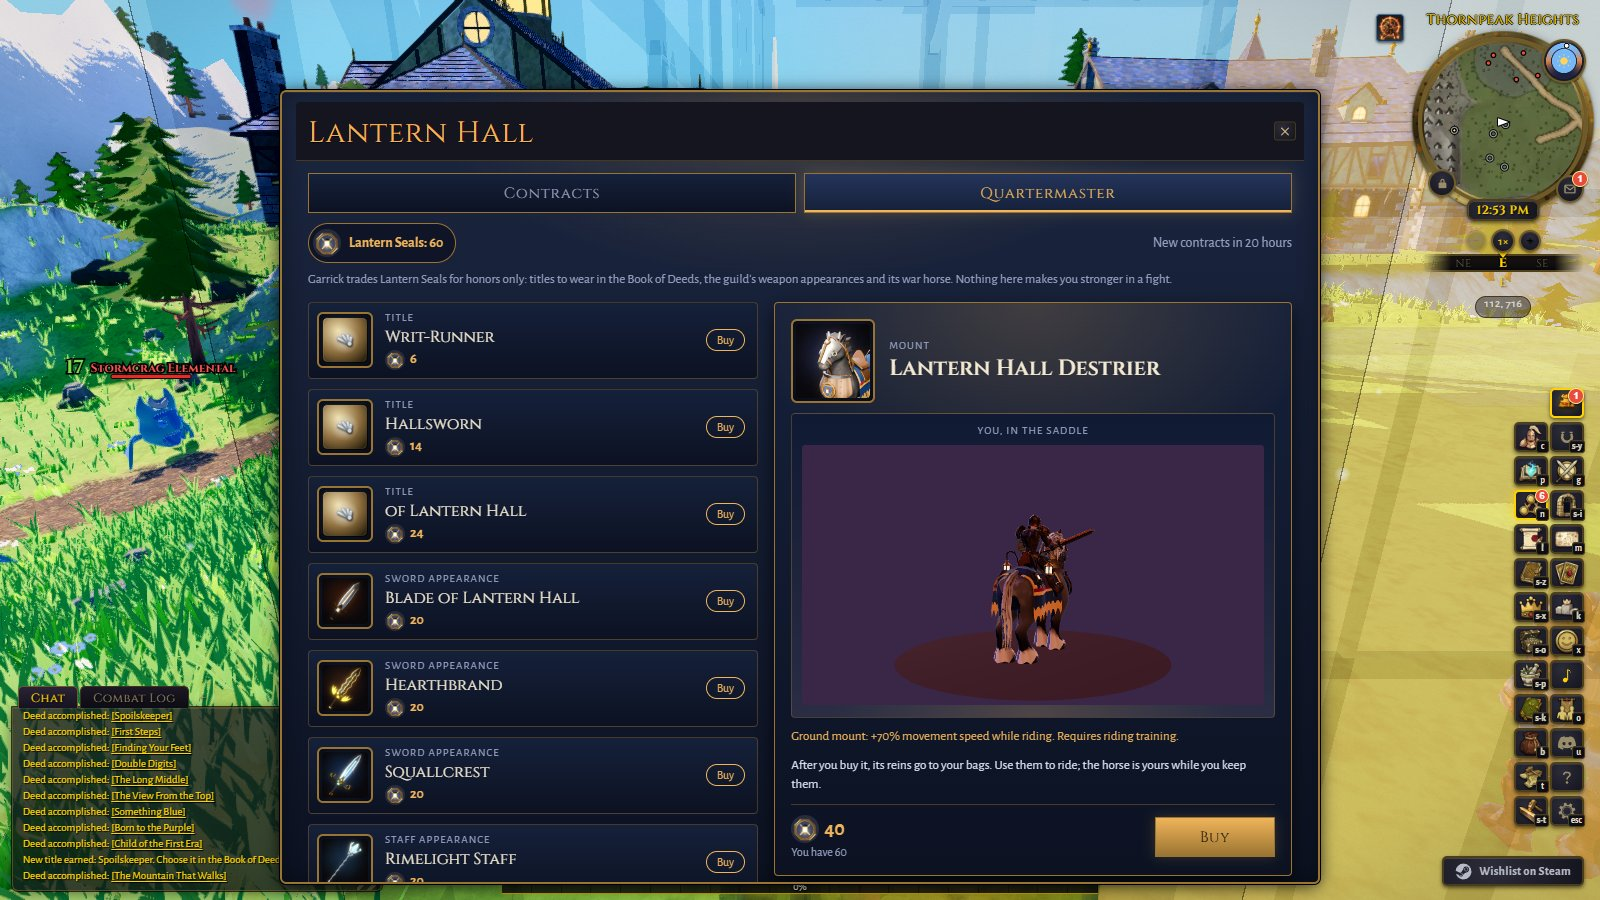
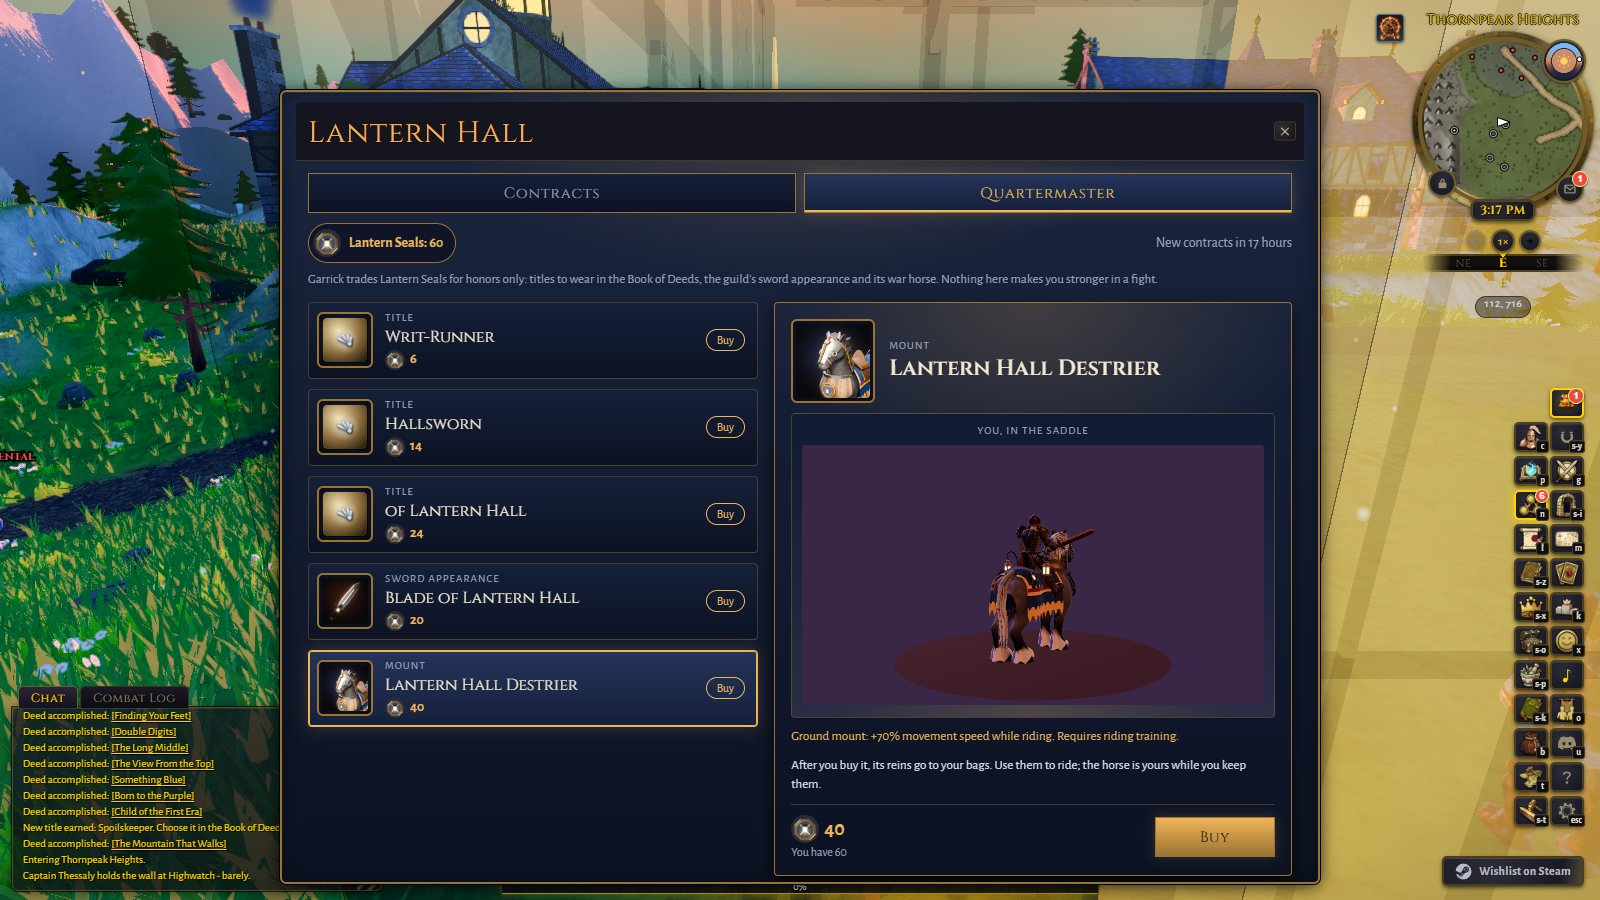
fix(guild): keep reserved arms off every server grant path
The server's Claudium storefront, spend allowlist and ownership mirror,
and the guild ledger now gate on isGrantableWeaponSkin, so a skin held
back for a future raid can never reach an account even if the economy
service lists it. Stale comments are corrected and the quartermaster
screenshots are recaptured on the Blade of Lantern Hall.

diff --git a/tests/server/account_cosmetics_service.test.ts b/tests/server/account_cosmetics_service.test.ts
@@ -1,9 +1,12 @@
 import { afterEach, describe, expect, it, vi } from 'vitest';
 
-const { persist } = vi.hoisted(() => ({ persist: vi.fn() }));
+const { persist, persistWeapon } = vi.hoisted(() => ({
+  persist: vi.fn(),
+  persistWeapon: vi.fn(),
+}));
 vi.mock('../../server/db', () => ({
   grantAccountMountSkins: persist,
-  grantAccountWeaponSkins: vi.fn(),
+  grantAccountWeaponSkins: persistWeapon,
   grantAccountMechChroma: vi.fn(),
   markAccountQuestComplete: vi.fn(),
   setAccountWeaponSkinLoadout: vi.fn(),
@@ -12,6 +15,7 @@ vi.mock('../../server/db', () => ({
 import { EMPTY_LIVE_ACCOUNT_COSMETICS } from '../../server/account_cosmetics_live';
 import { AccountCosmeticsService } from '../../server/account_cosmetics_service';
 import { RETIRED_MOUNT_SKIN_IDS } from '../../src/sim/content/mount_skins';
+import { RESERVED_WEAPON_SKIN_IDS } from '../../src/sim/content/weapon_skins';
 
 const base = () => ({ ...EMPTY_LIVE_ACCOUNT_COSMETICS, mountSkinIds: [] as string[] });
 const flush = async () => {
@@ -20,6 +24,7 @@ const flush = async () => {
 afterEach(() => {
   vi.restoreAllMocks();
   persist.mockReset();
+  persistWeapon.mockReset();
 });
 
 function setup() {
@@ -38,6 +43,23 @@ function setup() {
   service.remember(7, base());
   return { service, sessions, sim };
 }
+
+describe('weapon skins reserved for a future raid', () => {
+  it('never mirrors one the economy ledger grants, nor grants one through the guild ledger', () => {
+    const { service, sessions } = setup();
+    expect(RESERVED_WEAPON_SKIN_IDS.length).toBe(4);
+    service.grantWeaponSkins(7, [...RESERVED_WEAPON_SKIN_IDS, 'not_a_skin']);
+    expect(persistWeapon).not.toHaveBeenCalled();
+    expect(sessions.map((s) => s.accountCosmetics.weaponSkinIds)).toEqual([[], []]);
+    const ledger = service.ledger(sessions[0] as never);
+    for (const id of RESERVED_WEAPON_SKIN_IDS) expect(ledger.grantWeaponSkin(id), id).toBe(false);
+    expect(sessions[0].accountCosmetics.weaponSkinIds).toEqual([]);
+    // the guild's own blade still grants
+    persistWeapon.mockReturnValue(new Promise(() => {}));
+    expect(ledger.grantWeaponSkin('lantern_hall_sword')).toBe(true);
+    expect(persistWeapon).toHaveBeenCalledExactlyOnceWith(7, ['lantern_hall_sword']);
+  });
+});
 
 describe('durable mount skin grants', () => {
   it('never mirrors a retired skin the economy ledger still grants', () => {

diff --git a/server/account_cosmetics_service.ts b/server/account_cosmetics_service.ts
@@ -8,7 +8,11 @@
 // what keeps every test double on one import).
 import { isMountSkinId } from '../src/sim/content/mount_skins';
 import { withWeaponSkinApplied } from '../src/sim/content/weapon_skin_rules';
-import { isWeaponSkinType, WEAPON_SKINS } from '../src/sim/content/weapon_skins';
+import {
+  isGrantableWeaponSkin,
+  isWeaponSkinType,
+  WEAPON_SKINS,
+} from '../src/sim/content/weapon_skins';
 import type { GuildAccountPort } from '../src/sim/guild_quartermaster';
 import type { Entity, SkinCatalog, WeaponSkinLoadout, WeaponSkinType } from '../src/sim/types';
 import type { AccountCosmetics } from '../src/world_api';
@@ -148,7 +152,7 @@ export class AccountCosmeticsService {
     return {
       ownsWeaponSkin: (skinId) => session.accountCosmetics.weaponSkinIds.includes(skinId),
       grantWeaponSkin: (skinId) => {
-        if (!WEAPON_SKINS[skinId]) return false;
+        if (!isGrantableWeaponSkin(skinId)) return false;
         this.noteWeaponSkin(session, skinId);
         return true;
       },
@@ -178,7 +182,8 @@ export class AccountCosmeticsService {
   grantWeaponSkins(accountId: number, skinIds: string[]): void {
     this.grantSkins(
       accountId,
-      skinIds.filter((id) => WEAPON_SKINS[id]),
+      // never a skin reserved for a future raid, whatever the economy ledger carries
+      skinIds.filter(isGrantableWeaponSkin),
       'weaponSkinIds',
       grantAccountWeaponSkins,
     );

diff --git a/tests/guild_steed_and_sword.test.ts b/tests/guild_steed_and_sword.test.ts
@@ -67,7 +67,7 @@ describe('the catalog records', () => {
   it('stocks the horse at 40 seals and the sword at 20, both after the titles', () => {
     expect(LANTERN_HALL_DESTRIER_SEALS).toBe(40);
     expect(LANTERN_HALL_SWORD_SEALS).toBe(20);
-    // the sword leads the weapon rows, the four elemental arms follow it, the horse closes
+    // the sword is the one weapon row, the horse closes
     const ids = GUILD_QUARTERMASTER_STOCK.map((o) => o.id);
     expect(ids.slice(3, 4)).toEqual([SWORD]);
     expect(ids.at(-1)).toBe(HORSE);
@@ -120,7 +120,7 @@ describe('the catalog records', () => {
       earnedFrom: 'lantern_hall',
     });
     expect(STORE_WEAPON_SKIN_LIST.some((s) => s.id === LANTERN_HALL_SWORD_SKIN_ID)).toBe(false);
-    // the blade and the guild's four elemental arms are the five earned skins
+    // the store skips five: the guild's earned blade and four arms reserved for a future raid
     expect(STORE_WEAPON_SKIN_LIST.length).toBe(Object.keys(WEAPON_SKINS).length - 5);
   });
 });

diff --git a/server/claudium.ts b/server/claudium.ts
@@ -17,7 +17,7 @@ import type * as http from 'node:http';
 import { MEMBERSHIP_TOKEN_SKU } from '../src/membership_token_contract';
 import { isMountSkinId } from '../src/sim/content/mount_skins';
 import { isKnownStorageSkuId } from '../src/sim/content/storage_charters';
-import { WEAPON_SKINS } from '../src/sim/content/weapon_skins';
+import { isGrantableWeaponSkin } from '../src/sim/content/weapon_skins';
 import { GAME_SUBSCRIPTION_PLAN, GAME_SUBSCRIPTION_PRICE } from '../src/subscription_contract';
 import {
   type ClaudiumNativeRail,
@@ -118,7 +118,8 @@ function parseSpendKind(value: unknown): 'cosmetic' | 'skin' | 'item' | 'storage
 }
 
 function isKnownWeaponSkinId(itemId: string): boolean {
-  return Object.hasOwn(WEAPON_SKINS, itemId);
+  // a skin reserved for a future raid is no SKU, even if the service ever listed one
+  return isGrantableWeaponSkin(itemId);
 }
 
 function claudiumMutationAction(req: http.IncomingMessage): ClaudiumMutationAction | null {

diff --git a/tests/server/claudium.test.ts b/tests/server/claudium.test.ts
@@ -251,6 +251,14 @@ describe('Claudium spend entitlement mirroring', () => {
           costClaudium: 10,
           owned: false,
         },
+        // a catalog skin reserved for a future raid is no storefront row, even if listed
+        {
+          itemId: 'squallcrest_sword',
+          name: 'Squallcrest',
+          kind: 'skin',
+          costClaudium: 10,
+          owned: true,
+        },
       ],
     });
     const res = new FakeRes();
@@ -279,6 +287,7 @@ describe('Claudium spend entitlement mirroring', () => {
     { itemId: 'guildmark_arming_sword', kind: 'item' },
     { itemId: 'retired_placeholder_hat', kind: 'skin' },
     { itemId: '__proto__', kind: 'skin' },
+    { itemId: 'rimelight_staff', kind: 'skin' },
   ])('rejects unsupported store spend $itemId/$kind before debiting Claudium', async (body) => {
     const res = new FakeRes();
 

diff --git a/src/sim/content/weapon_skins.ts b/src/sim/content/weapon_skins.ts
@@ -385,6 +385,13 @@ export const RESERVED_WEAPON_SKIN_IDS: readonly string[] = WEAPON_SKIN_LIST.filt
   (skin) => skin.earnedFrom === 'future_raid',
 ).map((skin) => skin.id);
 
+/** A catalog skin that something may grant today: every skin but the ones reserved for a future
+ *  raid. The server's grant and store-mirror paths gate on this, so a reserved skin can never
+ *  reach an account ledger, whatever an outside catalog says. */
+export function isGrantableWeaponSkin(skinId: string): boolean {
+  return Object.hasOwn(WEAPON_SKINS, skinId) && WEAPON_SKINS[skinId].earnedFrom !== 'future_raid';
+}
+
 /** The skins the Claudium Armory sells: every skin that is not earned in the world. */
 export const STORE_WEAPON_SKIN_LIST: readonly WeaponSkinDef[] = WEAPON_SKIN_LIST.filter(
   (skin) => !skin.earnedFrom,

diff --git a/src/ui/hud/guild_hall/guild_quartermaster_view.ts b/src/ui/hud/guild_hall/guild_quartermaster_view.ts
@@ -64,7 +64,7 @@ export interface GuildShopItemView {
   id: string;
   offerKind: GuildQuartermasterOffer['kind'];
   art: GuildShopArt;
-  /** The reward itself ("Writ-Runner", "Lantern Hall Destrier", "Squallcrest"). */
+  /** The reward itself ("Writ-Runner", "Lantern Hall Destrier", "Blade of Lantern Hall"). */
   name: string;
   kindLabel: string;
   /** The bare price, for the seal-icon price tag. */
